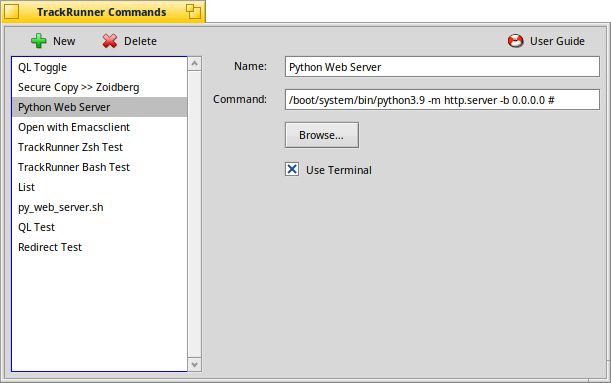
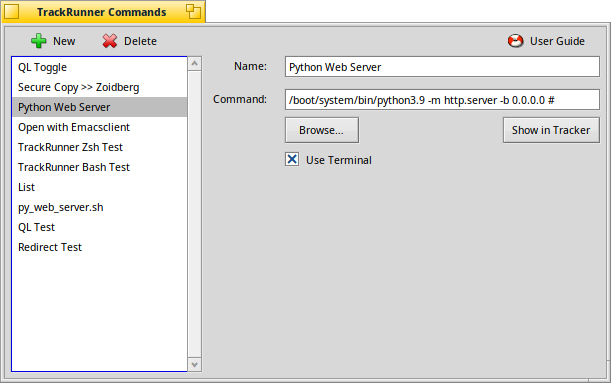
Add "Show in Tracker" button (#2)
* Add "Show in Tracker" button to open the command' location

* _CommandIsScript() simply checks if the command's path is valid
  and points to a text file.

* _ShowCommand() opens the current script's location in Tracker and
  selects it.

* Only enable the "Show in Tracker" button, if the command is a text file.
  It stays disabled, e.g. for a simple CLI command like /bin/ls.

* Update user guide

* Mention the new "Show in Tracker" button and drag'n'drop of a script file
  to set the command.
* Updated screenshot.
* Optimized all PNGs.

Changed region(s): [[0.4664, 0.2872, 0.6219, 0.4595], [0.8085, 0.2872, 0.9951, 0.3734]]

diff --git a/Source/CommandsWindow.cpp b/Source/CommandsWindow.cpp
@@ -17,8 +17,10 @@
 #include <IconUtils.h>
 #include <LayoutBuilder.h>
 #include <ListView.h>
+#include <NodeInfo.h>
 #include <Path.h>
 #include <Resources.h>
+#include <Roster.h>
 #include <ScrollView.h>
 #include <StringView.h>
 #include <private/shared/ToolBar.h>
@@ -32,6 +34,7 @@ enum {
 	kUserGuideAction = 'GiDe',
 	kListSelectAction = 'LsTs',
 	kBrowseCommandAction = 'BrWz',
+	kShowCommandAction = 'SwWz',
 	kListUpdateAction = 'LsUp'
 };
 
@@ -81,6 +84,7 @@ CommandsWindow::CommandsWindow(BString& title)
 						.SetInsets(0)
 						.Add(fBrowseButton = new BButton("Browse" B_UTF8_ELLIPSIS, new BMessage(kBrowseCommandAction)))
 						.AddGlue()
+						.Add(fShowButton = new BButton("Show in Tracker", new BMessage(kShowCommandAction)))
 					.End()
 					.Add(fTerminalCheckBox, 1, 3)
 				.End()
@@ -121,6 +125,9 @@ CommandsWindow::MessageReceived(BMessage* message)
 			break;
 		case kBrowseCommandAction:
 			_BrowseCommand();
+			break;
+		case kShowCommandAction:
+			_ShowCommand();
 			break;
 		case kDeleteCommandAction:
 			_DeleteCommand();
@@ -171,6 +178,73 @@ CommandsWindow::_BrowseCommand()
 		fBrowsePanel = new BFilePanel(B_OPEN_PANEL, new BMessenger(this), NULL, B_FILE_NODE, false, NULL, NULL, true);
 
 	fBrowsePanel->Show();
+}
+
+
+void
+CommandsWindow::_ShowCommand()
+{
+	BEntry itemEntry(_Deescape(fCommandControl->Text()));
+	status_t status = itemEntry.InitCheck();
+	if (status == B_OK) {
+		BEntry parentDirectory;
+		status = itemEntry.GetParent(&parentDirectory);
+		if (status == B_OK) {
+			entry_ref ref;
+			status = parentDirectory.GetRef(&ref);
+			if (status == B_OK) {
+				node_ref nref;
+				status = itemEntry.GetNodeRef(&nref);
+				if (status == B_OK)
+					_ShowInTracker(ref, &nref);
+			}
+		}
+	}
+}
+
+
+status_t
+CommandsWindow::_ShowInTracker(const entry_ref& ref, const node_ref* nref)
+{
+	status_t status = B_ERROR;
+
+	BMessenger tracker("application/x-vnd.Be-TRAK");
+	if (tracker.IsValid()) {
+		BMessage message(B_REFS_RECEIVED);
+		message.AddRef("refs", &ref);
+
+		if (nref != NULL)
+			message.AddData("nodeRefToSelect", B_RAW_TYPE, (void*)nref, sizeof(node_ref));
+
+		status = tracker.SendMessage(&message);
+	}
+	return status;
+}
+
+
+bool
+CommandsWindow::_CommandIsScript()
+{
+	BPath path = _Deescape(fCommandControl->Text());
+	if (path.InitCheck() != B_OK)
+		return false;
+
+	char mimeType[B_MIME_TYPE_LENGTH];
+	BNode commandNode(path.Path());
+	BNodeInfo(&commandNode).GetType(mimeType);
+	if (strncmp("text/", mimeType, 5) == 0)
+		return true;
+
+	return false;
+}
+
+
+const char*
+CommandsWindow::_Deescape(const char* path)
+{
+	BString text(path);
+	text.CharacterDeescape('\\');
+	return text.String();
 }
 
 
@@ -231,6 +305,7 @@ CommandsWindow::_SelectItem()
 	fCommandControl->SetEnabled(true);
 
 	fBrowseButton->SetEnabled(true);
+	fShowButton->SetEnabled(true);
 
 	fTerminalCheckBox->SetValue(item->UseTerminal());
 	fTerminalCheckBox->SetEnabled(true);
@@ -252,6 +327,8 @@ CommandsWindow::_UpdateItem()
 		item->SetText(fNameControl->Text());
 		fListView->InvalidateItem(fListView->CurrentSelection());
 	}
+
+	fShowButton->SetEnabled(_CommandIsScript());
 
 	_SaveCommands();
 }
@@ -320,6 +397,7 @@ CommandsWindow::_InitControls()
 	fCommandControl->SetEnabled(false);
 
 	fBrowseButton->SetEnabled(false);
+	fShowButton->SetEnabled(false);
 
 	fTerminalCheckBox->SetValue(1);
 	fTerminalCheckBox->SetEnabled(false);

diff --git a/Source/CommandsWindow.h b/Source/CommandsWindow.h
@@ -33,12 +33,17 @@ private:
 			void		_SelectItem();
 			void		_UpdateItem();
 			void		_BrowseCommand();
+			void		_ShowCommand();
+			status_t	_ShowInTracker(const entry_ref& ref, const node_ref* nref = NULL);
+			bool		_CommandIsScript();
+			const char*	_Deescape(const char* path);
 			void		_RefsReceived(BMessage* message);
 			status_t	_LoadCommands();
 			status_t	_SaveCommands();
 			BBitmap*	_ResourceBitmap(const char* name, float width, float height);
 
 		BButton*		fBrowseButton;
+		BButton*		fShowButton;
 		BCheckBox*		fTerminalCheckBox;
 		BListView*		fListView;
 		BFilePanel*		fBrowsePanel;

diff --git a/Assets/UserGuide/index.rst b/Assets/UserGuide/index.rst
@@ -60,6 +60,8 @@ Command Management Window
 
 
 The command management window allows you to add/edit/remove/sort shortcuts.
+You can drag'n'drop a script to replace the currently shown command path.
+If the command is a script, the `Show in Tracker` button will open its location in a Tracker window. From there you can rename it or open it in an editor etc.
 
 
 Command List
